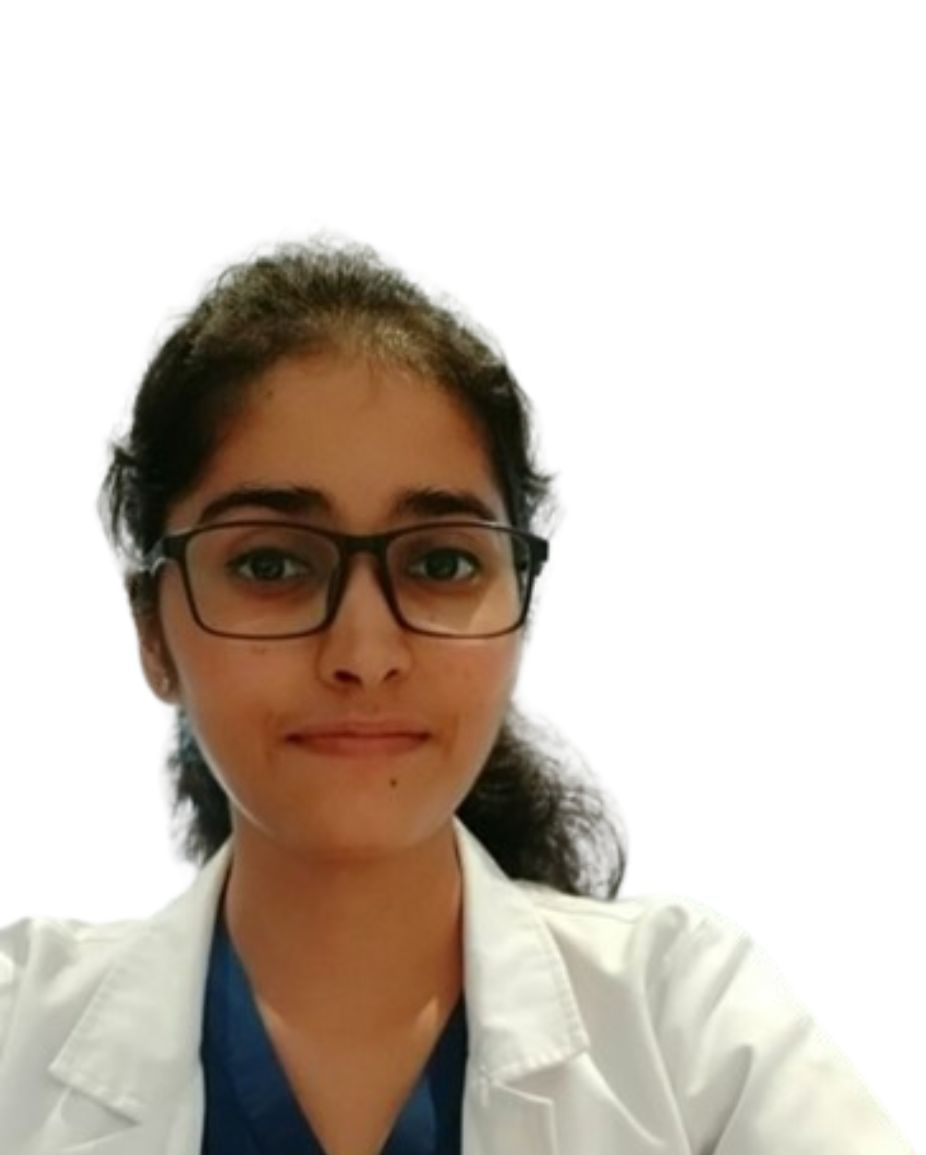
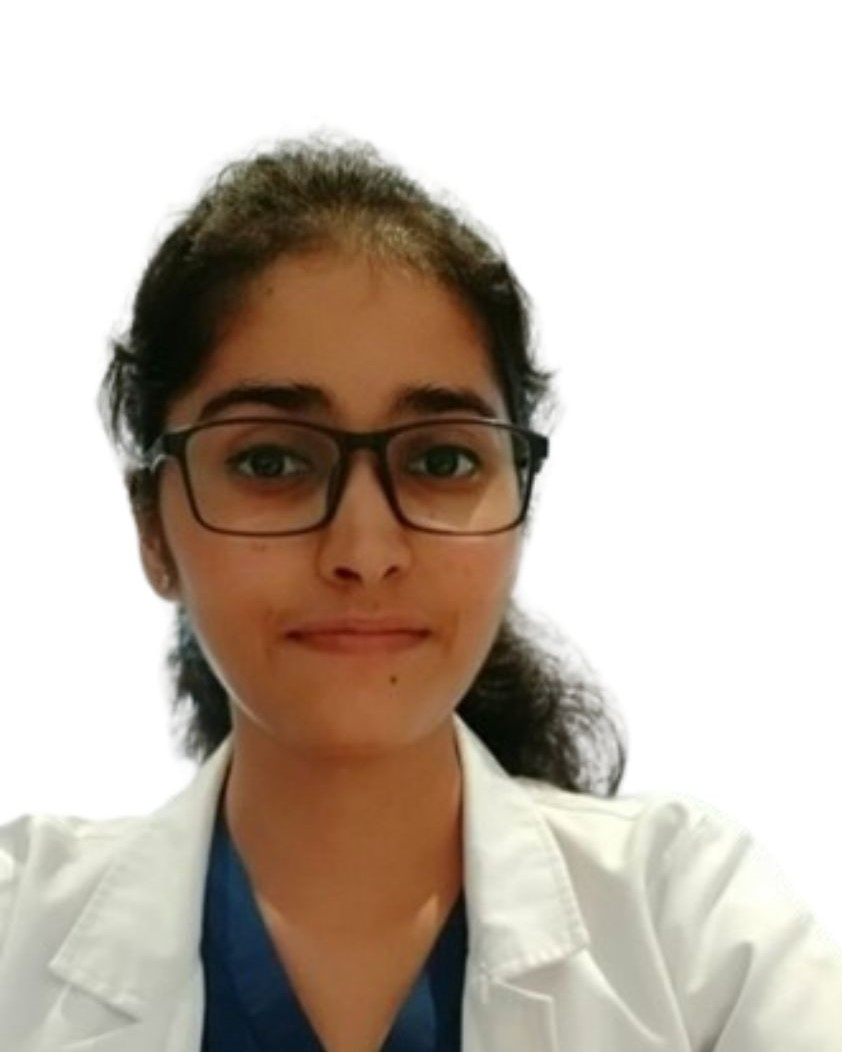
add fixes

diff --git a/src/pages/Programs.css b/src/pages/Programs.css
@@ -114,8 +114,8 @@
 }
 
 .productsDetailsImage img {
-  width: 100%;
-  height: 100%;
+  max-width: 100%;
+  max-height: 100%;
   border-radius: 8px;
   object-fit: cover !important;
 }
@@ -128,7 +128,7 @@
 
 .productsDetailsImageChildImages {
   width: 200px;
-  height: 150px;
+  /* height: 150px; */
   background-color: white;
   border-radius: 8px;
   margin: 5px;
@@ -140,7 +140,7 @@
   max-width: 100%;
   max-height: 100%;
   border-radius: 8px;
-  object-fit: cover !important;
+  object-fit: contain !important;
 }
 
 .headingOfProduct p {

diff --git a/src/pages/DoctorsPage.jsx b/src/pages/DoctorsPage.jsx
@@ -2,7 +2,7 @@ import React from "react";
 import Header from "../components/layout/Header";
 import Footer from "../components/layout/Footer";
 import kunal from "../assets/doctors/Dr_kunal_Vijay_Bagade.jpg";
-import gaurav from "../assets/doctors/Dr_govind.JPG";
+import gaurav from "../assets/doctors/Dr Gaurav (Background).jpg";
 import komal from "../assets/doctors/Dr. Komals.jpg";
 import { Card, Row, Col, Image } from "react-bootstrap";
 import "./DoctorPage.css"; // Importing the CSS file

diff --git a/src/components/layout/Doctors.jsx b/src/components/layout/Doctors.jsx
@@ -4,7 +4,7 @@ import { Swiper, SwiperSlide } from "swiper/react";
 import { useState, useEffect } from "react";
 import { useNavigate } from "react-router-dom";
 import kunal from "../../assets/doctors/Dr_kunal_Vijay_Bagade.jpg";
-import gaurav from "../../assets/doctors/Dr_govind.JPG";
+import gaurav from "../../assets/doctors/Dr Gaurav (Background).jpg";
 import komal from "../../assets/doctors/Dr. Komals.jpg";
 import "./Doctors.css";
 import "swiper/css";

diff --git a/src/components/layout/Header.jsx b/src/components/layout/Header.jsx
@@ -25,7 +25,7 @@ function Header() {
             <Nav className="me-auto">
               <Nav.Link href="#about">About</Nav.Link>
               <Nav.Link href="#programs">Programs</Nav.Link>
-              <Nav.Link href="#instructors">Doctors</Nav.Link>
+              <Nav.Link href="/doctors">Doctors</Nav.Link>
               <Nav.Link href="#gallery">Gallery</Nav.Link>
             </Nav>
           ) : (

diff --git a/src/components/layout/Footer.jsx b/src/components/layout/Footer.jsx
@@ -108,7 +108,7 @@ const Footer = () => {
       <div className="row text-center developer">
         <p>
           Copyright © 2024 Maadico | Developed by{" "}
-          <a href="https://ishanaudichya.netlify.app">Ishan Audichya</a>
+          <a href="https://disneygraphics.com">Disney Graphics</a>
         </p>
       </div>
     </div>
